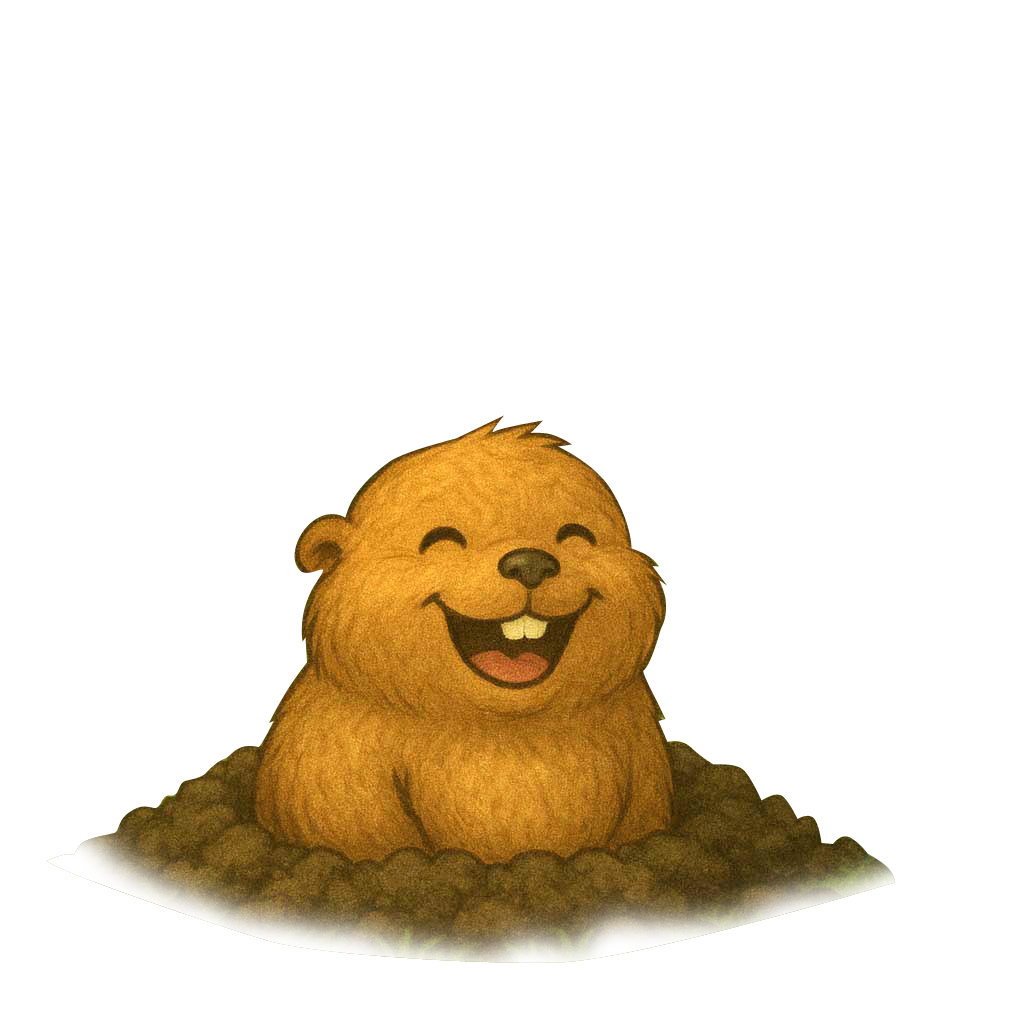
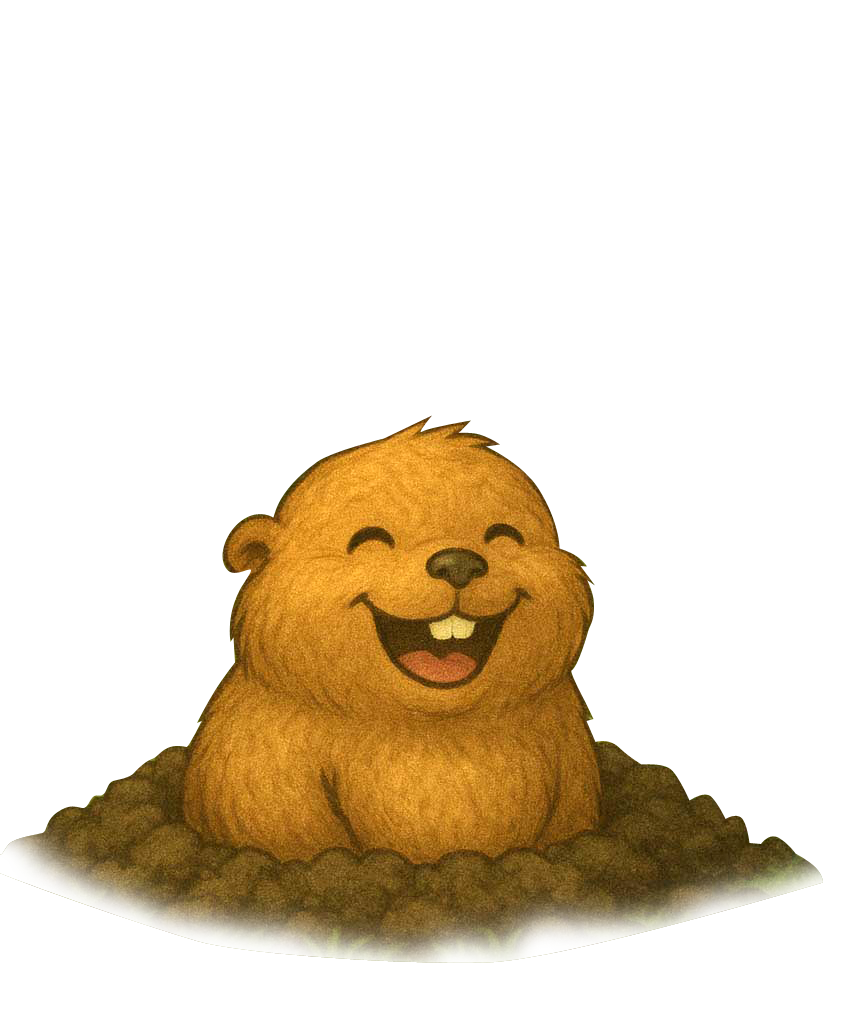
調整居中: 左右2圖調整成同樣大小

Changed region(s): [[0.0, 0.4062, 0.9777, 0.9375]]

diff --git a/index.html b/index.html
@@ -54,7 +54,7 @@
         /* box-shadow: 2px 2px rgba(0, 0, 0, 0.4), 4px 4px rgba(0, 0, 0, 0.7); */
         box-shadow: 0 4px 15px rgb(0 0 0 / 0.3);
         /* position: relative;
-        left: -30px;*/
+        left: -5px; */
       }
       .mole-img {
         /* max-height: 400px; */
@@ -66,7 +66,7 @@
       .hammer-img {
         max-height: 400px;
         /* position: relative;
-        left: -30px;*/
+        left: -30px; */
         /* transform: rotate(-30deg); */
       }
 
